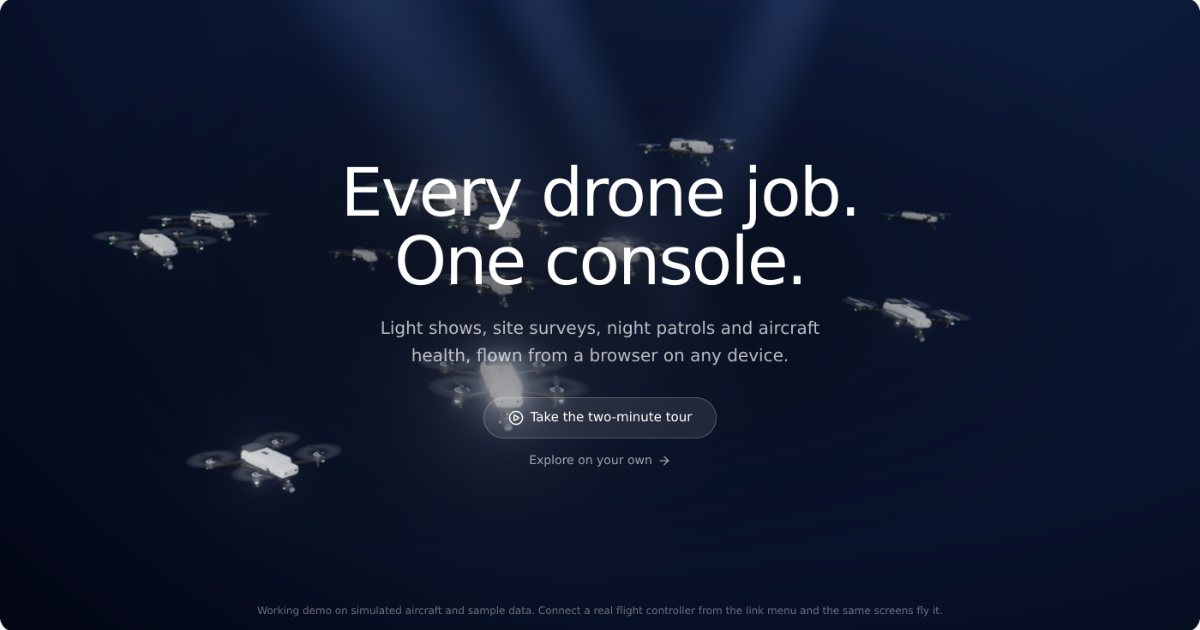
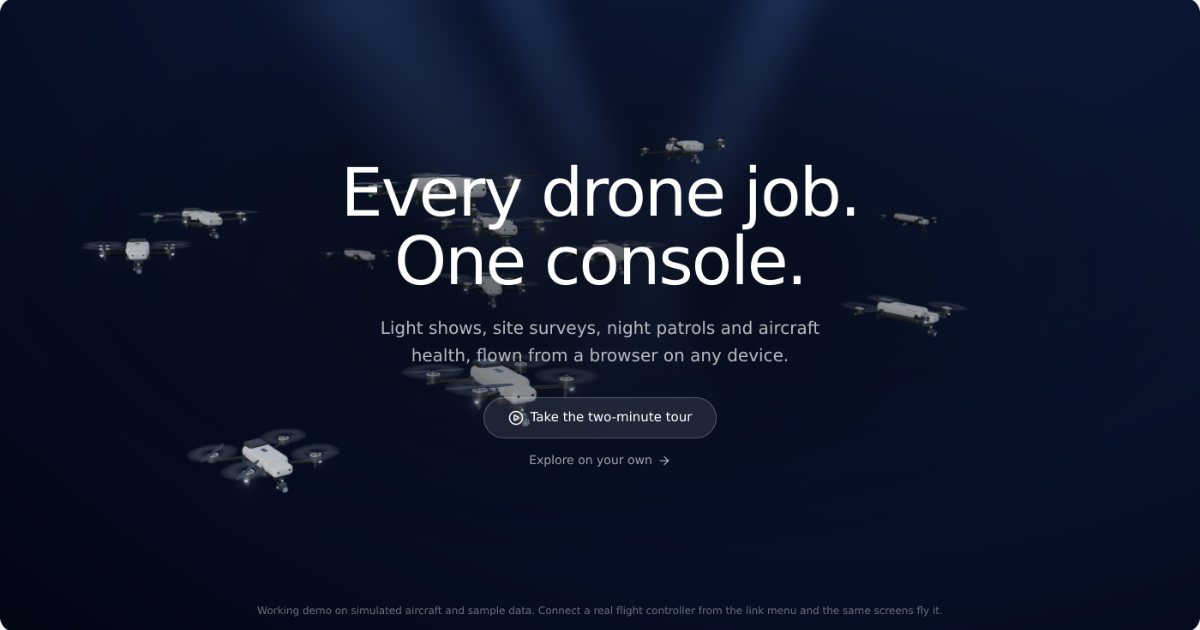
Quality pass: a frame governor on every 3D stage, a living hero, page fixes
A shared frame governor (src/lib/quality.ts) keeps every 3D stage smooth:
it watches the real frame time and steps quality down when frames run
long (pixel ratio, depth of field, bloom, ambient occlusion, fog slices,
shadow map) and back up when there is headroom, remembering the level per
stage. Where the machine allows, the hero, survey and show stages now
render at the screen's full pixel ratio, with SMAA on the hero.

The hero: every aircraft holds its slot the way a quadcopter holds a
hover, wandering a little off station and easing back, leaning into each
correction; the formation breathes and sways as one; nav lights flash the
aviation beat; a small kicker light moves a highlight across the bodies
as the camera drifts. Lighting rebalanced so the white shells keep their
edges instead of blowing out.

Pages: the patrol tool row wraps on phones (Return home was cut off).
The case study's product copy now describes what shipped: eleven
formations, the constructing survey stage, the CGI aerial tour. Social
preview and hero gallery stills regenerated.

Claude-Session: https://claude.ai/code/session_01YRwyL2vKMqSR8sPnguMhnM

diff --git a/drone/src/dashboards/hero/DroneHero.tsx b/drone/src/dashboards/hero/DroneHero.tsx
@@ -6,7 +6,9 @@ import { UnrealBloomPass } from 'three/examples/jsm/postprocessing/UnrealBloomPa
 import { OutputPass } from 'three/examples/jsm/postprocessing/OutputPass.js';
 import { BokehPass } from 'three/examples/jsm/postprocessing/BokehPass.js';
 import { RoomEnvironment } from 'three/examples/jsm/environments/RoomEnvironment.js';
+import { SMAAPass } from 'three/examples/jsm/postprocessing/SMAAPass.js';
 import { buildDrone, droneMaterials, radialTexture } from '../../components/hero/droneModel';
+import { FrameGovernor } from '../../lib/quality';
 
 /**
  * The Overview hero: a fleet of quadcopters in a dark, hazy sky, hovering with a
@@ -15,6 +17,13 @@ import { buildDrone, droneMaterials, radialTexture } from '../../components/hero
  * anodised bodies under a key light and a blue rim light, LED tips that bloom,
  * propeller blur, thin light trails when the fleet moves, volumetric beams in
  * the haze, and a camera that pushes in and follows the pointer a little.
+ *
+ * Motion: every aircraft holds its slot in the formation the way a real
+ * quadcopter holds a hover: a slow wander round the slot, a lean into each
+ * correction, a settle after it, props that never stop, nav lights that
+ * flash. The formation itself breathes and sways, and the camera dollies
+ * and drifts. A frame governor keeps it smooth, stepping the render sharper
+ * or lighter to match the machine.
  *
  * Reduced motion: one still frame of the chevron, nothing moves. No WebGL: the
  * page's gradient stays and the copy stands on its own.
@@ -52,6 +61,9 @@ interface Drone {
   stagger: number;
   ledColor: THREE.Color;
   roll: number; pitch: number; yaw: number;
+  /** The hover wander: a target offset from the slot the aircraft eases toward, re-picked every few seconds. */
+  wander: THREE.Vector3; wanderGoal: THREE.Vector3; nextPick: number;
+  nav: THREE.Mesh[];
 }
 
 export const DroneHero: React.FC<{ className?: string }> = ({ className = '' }) => {
@@ -66,8 +78,9 @@ export const DroneHero: React.FC<{ className?: string }> = ({ className = '' }) 
     let renderer: THREE.WebGLRenderer;
     try { renderer = new THREE.WebGLRenderer({ antialias: true, alpha: false, powerPreference: 'high-performance' }); }
     catch (e) { console.warn('Hero: WebGL unavailable', e); setOk(false); return; }
-    renderer.setPixelRatio(Math.min(window.devicePixelRatio || 1, phone ? 1.25 : 1.6));
-    renderer.toneMapping = THREE.ACESFilmicToneMapping; renderer.toneMappingExposure = 1.05;
+    const gov = new FrameGovernor('hero');
+    renderer.setPixelRatio(gov.pixelRatio(2));
+    renderer.toneMapping = THREE.ACESFilmicToneMapping; renderer.toneMappingExposure = 0.95;
     el.appendChild(renderer.domElement);
     renderer.domElement.style.cssText = 'position:absolute;inset:0;width:100%;height:100%;display:block';
 
@@ -89,10 +102,12 @@ export const DroneHero: React.FC<{ className?: string }> = ({ className = '' }) 
 
     // Lighting: warm key from the front-left and above, cool rim from behind, faint sky fill.
     scene.add(new THREE.HemisphereLight(0x8fa8d8, 0x06080c, 0.55));
-    const key = new THREE.DirectionalLight(0xfff1e0, 1.7); key.position.set(-9, 14, 12); scene.add(key);
-    const fill = new THREE.DirectionalLight(0xdbe6ff, 0.55); fill.position.set(10, 3, 14); scene.add(fill);
-    const rim = new THREE.DirectionalLight(0x8fc0ff, 2.4); rim.position.set(2, 9, -16); scene.add(rim);
-    const under = new THREE.DirectionalLight(0x3d6fd6, 0.6); under.position.set(0, -10, 4); scene.add(under);
+    const key = new THREE.DirectionalLight(0xfff1e0, 1.35); key.position.set(-9, 14, 12); scene.add(key);
+    const fill = new THREE.DirectionalLight(0xdbe6ff, 0.45); fill.position.set(10, 3, 14); scene.add(fill);
+    const rim = new THREE.DirectionalLight(0x8fc0ff, 2.2); rim.position.set(2, 9, -16); scene.add(rim);
+    const under = new THREE.DirectionalLight(0x3d6fd6, 0.5); under.position.set(0, -10, 4); scene.add(under);
+    // A specular highlight that moves across the bodies as the camera drifts: a small, sharp kicker.
+    const kicker = new THREE.PointLight(0xffffff, 9, 30, 1.8); kicker.position.set(4, 8, 10); scene.add(kicker);
 
     // Volumetric beams: soft additive slabs cutting through the haze.
     const beamMat = new THREE.ShaderMaterial({
@@ -126,17 +141,20 @@ export const DroneHero: React.FC<{ className?: string }> = ({ className = '' }) 
       tg.setAttribute('color', new THREE.BufferAttribute(new Float32Array(pts * 3), 3));
       const trail = new THREE.Line(tg, new THREE.LineBasicMaterial({ vertexColors: true, transparent: true, blending: THREE.AdditiveBlending, depthWrite: false, toneMapped: false }));
       trail.frustumCulled = false; scene.add(trail);
-      drones.push({ group, props, blur, trail, history: Array.from({ length: pts }, () => group.position.clone()), prev: group.position.clone(), phase: rnd() * Math.PI * 2, stagger: i / n, ledColor, roll: 0, pitch: 0, yaw: 0 });
+      const nav = group.children.filter((c): c is THREE.Mesh => (c as THREE.Mesh).isMesh && ((c as THREE.Mesh).material === mats.ledGreen || (c as THREE.Mesh).material === mats.ledRed)).map(m => { m.material = (m.material as THREE.Material).clone(); return m; });
+      drones.push({ group, props, blur, trail, history: Array.from({ length: pts }, () => group.position.clone()), prev: group.position.clone(), phase: rnd() * Math.PI * 2, stagger: i / n, ledColor, roll: 0, pitch: 0, yaw: 0, wander: new THREE.Vector3(), wanderGoal: new THREE.Vector3(), nextPick: rnd() * 3, nav });
     }
 
     const composer = new EffectComposer(renderer);
     composer.addPass(new RenderPass(scene, cam));
     // Shallow depth of field, focused on whichever aircraft is nearest; skipped on phones.
-    const bokeh = phone ? null : new BokehPass(scene, cam, { focus: 12, aperture: 0.00012, maxblur: 0.0022 });
+    const bokeh = phone ? null : new BokehPass(scene, cam, { focus: 12, aperture: 0.0001, maxblur: 0.0018 });
     if (bokeh) composer.addPass(bokeh);
-    const bloom = new UnrealBloomPass(new THREE.Vector2(1, 1), phone ? 0.4 : 0.45, 0.55, 0.98);
+    const bloom = new UnrealBloomPass(new THREE.Vector2(1, 1), phone ? 0.3 : 0.34, 0.5, 1.0);
     composer.addPass(bloom);
     composer.addPass(new OutputPass());
+    // Edge anti-aliasing after tone mapping: crisp arms and blades at every pixel ratio.
+    const smaa = new SMAAPass(); composer.addPass(smaa);
 
     const size = () => {
       const w = el.clientWidth, h = el.clientHeight;
@@ -166,9 +184,12 @@ export const DroneHero: React.FC<{ className?: string }> = ({ className = '' }) 
       let x: number, y: number, z: number;
       if (u < 0.5) { const s = smooth(u / 0.5); x = a[0] + (b[0] - a[0]) * s; y = a[1] + (b[1] - a[1]) * s; z = a[2] + (b[2] - a[2]) * s; }
       else { const s = smooth((u - 0.5) / 0.5); x = b[0] + (c[0] - b[0]) * s; y = b[1] + (c[1] - b[1]) * s; z = b[2] + (c[2] - b[2]) * s; }
-      // Idle hover: a slow bob and a lean, unique to each aircraft.
-      y += Math.sin(t * 0.9 + d.phase) * 0.09 + Math.sin(t * 1.7 + d.phase * 2) * 0.03;
-      x += Math.sin(t * 0.5 + d.phase) * 0.06;
+      // The formation breathes and sways as one: a slow swell in scale, a lean of the whole fleet.
+      const swell = 1 + Math.sin(t * 0.23) * 0.035, sway = Math.sin(t * 0.17) * 0.35;
+      x = x * swell + sway * (y * 0.12); z = z * swell;
+      // Hover: a wander round the slot, plus the fine bob a real aircraft never loses.
+      x += d.wander.x; y += d.wander.y; z += d.wander.z;
+      y += Math.sin(t * 0.9 + d.phase) * 0.06 + Math.sin(t * 1.7 + d.phase * 2) * 0.02;
       d.group.position.set(x, y, z);
     };
 
@@ -183,19 +204,26 @@ export const DroneHero: React.FC<{ className?: string }> = ({ className = '' }) 
       cam.lookAt(0, 0.9 + p * 0.3, 0);
       let nearest = 1e9;
       beams.forEach((b, k) => { b.rotation.z = [0.55, 0.42, -0.35][k] + Math.sin(t * 0.08 + k) * 0.05; });
+      kicker.position.set(4 + px * 3, 8 - py * 2, 10);
       drones.forEach((d, i) => {
         d.prev.copy(d.group.position);
+        // Every few seconds the aircraft picks a new spot a little off its slot and eases there: station-keeping.
+        if (t > d.nextPick) { d.wanderGoal.set((rnd() - 0.5) * 0.9, (rnd() - 0.5) * 0.5, (rnd() - 0.5) * 0.7); d.nextPick = t + 2.5 + rnd() * 4; }
+        d.wander.lerp(d.wanderGoal, 1 - Math.exp(-dt * 0.9));
         place(d, i, p, t);
         vel.subVectors(d.group.position, d.prev).divideScalar(Math.max(dt, 1e-3));
         // Bank into the turn: roll with sideways speed, pitch with fore-aft speed, yaw a little toward the heading.
-        const roll = THREE.MathUtils.clamp(-vel.x * 0.09, -0.55, 0.55) + Math.sin(t * 0.8 + d.phase) * 0.035;
-        const pitch = THREE.MathUtils.clamp(vel.z * 0.07, -0.45, 0.45) + Math.sin(t * 1.1 + d.phase) * 0.025;
+        const roll = THREE.MathUtils.clamp(-vel.x * 0.16, -0.55, 0.55) + Math.sin(t * 0.8 + d.phase) * 0.03;
+        const pitch = THREE.MathUtils.clamp(vel.z * 0.12, -0.45, 0.45) + Math.sin(t * 1.1 + d.phase) * 0.02;
         const yaw = vel.length() > 0.8 ? Math.atan2(vel.x, -vel.z) * 0.35 : d.yaw;
         d.roll += (roll - d.roll) * (1 - Math.exp(-dt * 3)); d.pitch += (pitch - d.pitch) * (1 - Math.exp(-dt * 3)); d.yaw += (yaw - d.yaw) * (1 - Math.exp(-dt * 1.5));
         d.group.rotation.set(d.pitch - 0.08, d.yaw - Math.PI * 0.5 + 0.55 + Math.sin(d.phase) * 0.3, d.roll, 'YXZ');
         nearest = Math.min(nearest, d.group.position.distanceTo(cam.position));
-        const spin = dt * 62;
+        const spin = dt * (62 + vel.length() * 6);
         d.props.forEach((pr, k) => { pr.rotation.y += spin * (k % 2 ? -1 : 1); });
+        // Nav lights: the aviation flash, once a second, offset per aircraft.
+        const flash = ((t * 1.0 + d.phase) % 1) < 0.12 ? 1 : 0.18;
+        d.nav.forEach(m => { const mat = m.material as THREE.MeshBasicMaterial; mat.opacity = flash; mat.transparent = true; });
         // Light trail: recent positions, fading, brighter the faster the aircraft moves.
         d.history.pop(); d.history.unshift(d.group.position.clone());
         const pos = d.trail.geometry.getAttribute('position') as THREE.BufferAttribute, col = d.trail.geometry.getAttribute('color') as THREE.BufferAttribute;
@@ -203,8 +231,10 @@ export const DroneHero: React.FC<{ className?: string }> = ({ className = '' }) 
         d.history.forEach((h, k) => { pos.setXYZ(k, h.x, h.y - 0.05, h.z); const f = strength * (1 - k / d.history.length) * 0.8; col.setXYZ(k, d.ledColor.r * f, d.ledColor.g * f, d.ledColor.b * f); });
         pos.needsUpdate = true; col.needsUpdate = true;
       });
-      if (bokeh) (bokeh.uniforms as { focus: { value: number } }).focus.value += (nearest - (bokeh.uniforms as { focus: { value: number } }).focus.value) * 0.1;
+      if (bokeh) { bokeh.enabled = gov.level === 0; (bokeh.uniforms as { focus: { value: number } }).focus.value += (nearest - (bokeh.uniforms as { focus: { value: number } }).focus.value) * 0.1; }
+      bloom.enabled = gov.level < 2; smaa.enabled = gov.level < 2;
       composer.render();
+      if (gov.tick(dt * 1000)) { renderer.setPixelRatio(gov.pixelRatio(2)); size(); }
       raf = requestAnimationFrame(frame);
     };
 

diff --git a/drone/portfolio/case-study.html b/drone/portfolio/case-study.html
@@ -169,42 +169,42 @@
       <div>
         <span class="tag">Light show</span>
         <h3>Conduct a show from front of house</h3>
-        <p>The stage renders like the night sky the audience will see: bloomed LED halos, light trails through formation changes, reflections on the venue floor.</p>
+        <p>Eleven living formations for 100 to 500 aircraft: an aurora sphere, a spiral galaxy, a phoenix, a heartbeat, fireworks, wedding rings, a countdown, and any words spelt out in lights. The stage renders like the night sky the audience will see: bloomed LED halos, light trails through every change, searchlights, the view from the crowd.</p>
         <ul>
           <li>Pre-flight gates (timecode lock, wind, RTK, battery) hold the arm button</li>
           <li>One-button abort: lights out, controlled descent for every aircraft</li>
           <li>Exports the choreography to the show-control stack</li>
         </ul>
       </div>
-      <div class="shot"><img src="gallery/show.jpg" alt="Show conductor with a 100-aircraft orb formation" loading="lazy" width="1600" height="1000"></div>
+      <div class="shot"><img src="gallery/show.jpg" alt="Show conductor mid-show, 100 aircraft in formation seen from the audience" loading="lazy" width="1600" height="1000"></div>
     </article>
 
     <article class="product" style="--accent: var(--survey)">
       <div>
         <span class="tag">Site survey</span>
         <h3>Watch the map develop in flight</h3>
-        <p>Pick a map, a 3D model or an inspection orbit, and the camera maths sets height, line spacing and flight time. The venue turns from blueprint into aerial photo under the aircraft.</p>
+        <p>Pick a map, a 3D model or an inspection orbit, and the camera maths sets height, line spacing and flight time. The venue constructs itself under the aircraft: blueprint ground, each photo dropping into place as a tile of the finished map, buildings rising as they are photographed, filmed by a director's camera.</p>
         <ul>
           <li>Coverage checked before leaving the venue, not back at the office</li>
           <li>Re-fly weak patches in minutes</li>
           <li>Mission upload to the aircraft, and a package for the processing software</li>
         </ul>
       </div>
-      <div class="shot"><img src="gallery/survey.jpg" alt="Site survey 3D stage mid-flight, 60% photographed" loading="lazy" width="1600" height="1000"></div>
+      <div class="shot"><img src="gallery/survey.jpg" alt="Site survey 3D stage: the venue rising out of its blueprint as the aircraft photographs it" loading="lazy" width="1600" height="1000"></div>
     </article>
 
     <article class="product" style="--accent: var(--patrol)">
       <div>
         <span class="tag">Security patrol</span>
         <h3>See the venue at night</h3>
-        <p>Four aircraft on a patrol loop. The camera plays real drone footage over San Francisco, Los Angeles, New York and mountain ranges, with thermal and night-vision modes applied on top; a rendered 3D city with traffic, people and thermal signatures stands in when the footage can't load.</p>
+        <p>Four aircraft on a patrol loop. The camera plays real drone footage over San Francisco, Los Angeles, New York and mountain ranges, with thermal and night-vision modes applied on top. When the footage can't load, San Francisco plays as a CGI aerial tour rendered live in the browser, eighteen shots from the Golden Gate to blue hour, and other cities as a rendered 3D city with traffic, people and thermal signatures.</p>
         <ul>
           <li>Night protocol switches every camera to thermal</li>
           <li>Gimbal, zoom, spotlight and photos on the real aircraft</li>
           <li>Detections queue for the security team</li>
         </ul>
       </div>
-      <div class="shot"><img src="gallery/patrol.jpg" alt="Patrol screen: four aircraft over a city with an event plaza, stage and crowd" loading="lazy" width="1600" height="1000"></div>
+      <div class="shot"><img src="gallery/patrol.jpg" alt="Patrol screen: the San Francisco skyline under the marine layer, rendered live" loading="lazy" width="1600" height="1000"></div>
     </article>
   </section>
 

diff --git a/drone/src/lib/quality.ts b/drone/src/lib/quality.ts
@@ -1,0 +1,59 @@
+/**
+ * Frame governor: keeps every 3D stage smooth on whatever machine it runs on.
+ *
+ * Each stage feeds it a frame time; it keeps a smoothed average and steps a
+ * quality level down when frames run long, and back up when there is headroom
+ * for a good while. The stage maps the level to what it can trade: pixel
+ * ratio, post-processing passes, shadow map size, particle counts.
+ *
+ *   0  full quality (sharp pixel ratio, every pass)
+ *   1  lighter (pixel ratio 1.25, the dearest pass off)
+ *   2  lightest (pixel ratio 1, no post-processing beyond output)
+ *
+ * The chosen level is remembered per stage between visits, so a slow machine
+ * doesn't stutter through the first seconds of every page.
+ */
+
+export type QualityLevel = 0 | 1 | 2;
+
+const STEP_DOWN_MS = 1000 / 40;   // slower than 40 fps: step down
+const STEP_UP_MS = 1000 / 58;     // faster than 58 fps for long enough: step up
+const SETTLE_DOWN = 45;           // frames of evidence before stepping down
+const SETTLE_UP = 600;            // frames before stepping back up (about ten seconds)
+
+export class FrameGovernor {
+  level: QualityLevel;
+  private avg = 16;
+  private settled = 0;
+  private readonly key: string;
+  private listeners: ((l: QualityLevel) => void)[] = [];
+
+  constructor(name: string, start: QualityLevel = 0) {
+    this.key = `a1-quality-${name}`;
+    let saved: QualityLevel | null = null;
+    try { const v = localStorage.getItem(this.key); if (v !== null) saved = Math.min(2, Math.max(0, Number(v))) as QualityLevel; } catch { /* private mode */ }
+    this.level = saved ?? start;
+  }
+
+  /** Call once per rendered frame with the frame time in milliseconds. Returns true when the level changed. */
+  tick(frameMs: number): boolean {
+    this.avg = this.avg * 0.92 + Math.min(frameMs, 100) * 0.08;
+    this.settled++;
+    let next = this.level;
+    if (this.avg > STEP_DOWN_MS && this.level < 2 && this.settled > SETTLE_DOWN) next = (this.level + 1) as QualityLevel;
+    else if (this.avg < STEP_UP_MS && this.level > 0 && this.settled > SETTLE_UP) next = (this.level - 1) as QualityLevel;
+    if (next === this.level) return false;
+    this.level = next; this.settled = 0; this.avg = 16;
+    try { localStorage.setItem(this.key, String(next)); } catch { /* ignore */ }
+    for (const l of this.listeners) l(next);
+    return true;
+  }
+
+  onChange(l: (level: QualityLevel) => void) { this.listeners.push(l); }
+
+  /** The pixel ratio for this level: sharp where there is headroom, never above what the screen has. */
+  pixelRatio(max = 2): number {
+    const dpr = window.devicePixelRatio || 1;
+    return Math.min(dpr, this.level === 0 ? max : this.level === 1 ? 1.25 : 1);
+  }
+}

diff --git a/drone/src/components/survey/SurveyScanCanvas3D.tsx b/drone/src/components/survey/SurveyScanCanvas3D.tsx
@@ -12,6 +12,7 @@ import { RotateCcw } from 'lucide-react';
 import { PARKED_CARS, SITE, TREES, WORLD_M, heightAt, siteImagery, structureAt } from '../../survey/site';
 import { GOOD_VIEWS, type CoverageGrid, type Leg, type SurveyPlan } from '../../survey/plan';
 import { buildDrone, droneMaterials, radialTexture } from '../hero/droneModel';
+import { FrameGovernor } from '../../lib/quality';
 import type { Photo, SurveyAircraft, Phase } from '../../hooks/useSurveyMission';
 
 /**
@@ -207,7 +208,8 @@ export const SurveyScanCanvas3D: React.FC<Props> = (props) => {
     const host = hostRef.current; if (!host) return;
     const w = host.clientWidth || 900, h = host.clientHeight || 520;
     const renderer = new THREE.WebGLRenderer({ antialias: true, powerPreference: 'high-performance' });
-    renderer.setPixelRatio(Math.min(window.devicePixelRatio, 2));
+    const gov = new FrameGovernor('survey');
+    renderer.setPixelRatio(gov.pixelRatio(2));
     renderer.setSize(w, h);
     renderer.toneMapping = THREE.ACESFilmicToneMapping;
     renderer.toneMappingExposure = 1.15;
@@ -684,7 +686,8 @@ export const SurveyScanCanvas3D: React.FC<Props> = (props) => {
       }
       // Depth of field only when the film or the follow camera is close to the aircraft.
       const filmed = vw === 'CINEMATIC' || vw === 'FOLLOW';
-      bokeh.enabled = filmed;
+      bokeh.enabled = filmed && gov.level === 0;
+      bloom.enabled = gov.level < 2;
       const bu = bokeh.uniforms as { focus: { value: number }; aperture: { value: number } };
       bu.focus.value += (camera.position.distanceTo(ac.position) - bu.focus.value) * 0.15;
       bu.aperture.value = vw === 'CINEMATIC' ? 0.00005 : 0.00002;
@@ -694,6 +697,7 @@ export const SurveyScanCanvas3D: React.FC<Props> = (props) => {
       place(homeRef.current, SITE.home.x, hy + 6, SITE.home.y);
 
       composer.render();
+      if (gov.tick(dt * 1000)) { renderer.setPixelRatio(gov.pixelRatio(2)); const cw = host.clientWidth, ch = host.clientHeight; renderer.setSize(cw, ch); composer.setSize(cw, ch); bloom.setSize(cw, ch); }
     };
     raf = requestAnimationFrame(tick);
 

diff --git a/drone/src/dashboards/feed/engine.ts b/drone/src/dashboards/feed/engine.ts
@@ -218,7 +218,7 @@ class Engine {
     else if (this.slow < 1 / 56 && this.level > 0 && this.settled > 600) { this.level--; this.settled = 0; }
     this.city.update(dt);
     this.sfSeen = false;
-    for (const v of this.views) if (v.world === 'SF' && !v.video) { this.sfWorld().update(dt); break; }
+    for (const v of this.views) if (v.world === 'SF' && !v.video) { const sf = this.sfWorld(); sf.update(dt); sf.setDetail(this.level); break; }
     const moved = new Set<string>();
     for (const v of this.views) {
       const d = v.get().drone;
@@ -349,8 +349,8 @@ class Engine {
       this.sfRt = new THREE.WebGLRenderTarget(FEED_W, FEED_H, { samples: 4, type: THREE.HalfFloatType });
       this.sfDepth = new THREE.WebGLRenderTarget(FEED_W, FEED_H, { minFilter: THREE.NearestFilter, magFilter: THREE.NearestFilter });
     }
-    // Depth prepass for the ambient occlusion: solid geometry only, at half resolution.
-    if (!v.compact) {
+    // Depth prepass for the ambient occlusion: solid geometry only; skipped when the machine is stepping down.
+    if (!v.compact && this.level === 0) {
       sf.solidOnly(true);
       sf.scene.overrideMaterial = this.depthMat;
       this.sfDepth!.viewport.set(0, 0, w, h);
@@ -367,7 +367,7 @@ class Engine {
     this.renderer.render(sf.scene, this.cam);
     const u = this.post.uniforms;
     u.tDiffuse.value = this.sfRt.texture; u.tDepth.value = this.sfDepth!.texture;
-    u.ao.value = v.compact ? 0 : 1; u.camNear.value = this.cam.near; u.camFar.value = this.cam.far;
+    u.ao.value = v.compact || this.level > 0 ? 0 : 1; u.camNear.value = this.cam.near; u.camFar.value = this.cam.far;
     u.invProj.value.copy(this.cam.projectionMatrixInverse); u.proj.value.copy(this.cam.projectionMatrix);
     u.uvScale.value.set(w / FEED_W, h / FEED_H); u.uvMax.value.copy(u.uvScale.value); u.uvOffset.value.set(0, 0); u.uvRot.value = 0;
     u.res.value.set(w, h);

diff --git a/drone/src/dashboards/feed/sf.ts b/drone/src/dashboards/feed/sf.ts
@@ -899,6 +899,16 @@ export class SanFrancisco {
     return mat;
   }
 
+  private detail = -1;
+  /** Trade detail for speed: fewer fog slices and a smaller shadow map as the level rises. */
+  setDetail(level: number) {
+    if (level === this.detail) return; this.detail = level;
+    let k = 0;
+    this.scene.traverse(o => { if (o.name === 'fog') { o.userData.slice = k++; } });
+    this.scene.traverse(o => { if (o.name === 'fog') o.userData.off = level === 0 ? false : level === 1 ? o.userData.slice % 2 === 1 : o.userData.slice % 3 !== 0; });
+    const size = level === 0 ? 2048 : 1024;
+    if (this.sun.shadow.mapSize.x !== size) { this.sun.shadow.mapSize.set(size, size); this.sun.shadow.map?.dispose(); this.sun.shadow.map = null; }
+  }
   private hidden: THREE.Object3D[] = [];
   /** Hide everything that is not solid geometry (fog, sprites, points, lines) for a depth prepass, and restore. */
   solidOnly(on: boolean) {
@@ -951,7 +961,7 @@ export class SanFrancisco {
     if (!ir) this.scene.environment = this.envFor(mood); else this.scene.environment = null;
     this.gndMat.emissiveIntensity = blue ? 0.9 : golden ? 0.55 : 0;
     this.lights.visible = !ir && !day; this.carLights.visible = !ir && !day; this.sunDisc.visible = !ir && !blue;
-    this.scene.traverse(o => { if (o.name === 'fog') o.visible = !ir; });
+    this.scene.traverse(o => { if (o.name === 'fog') o.visible = !ir && !o.userData.off; });
     this.fogLayer.uniforms.mood.value = MOOD_K[mood];
     this.fogLayer.uniforms.fogCol.value.set(blue ? 0x28324a : golden ? 0xd9c3ae : 0xeef1f4);
     this.ggMat.emissive.set(blue ? 0xff9a3c : 0x000000); this.ggMat.emissiveIntensity = blue ? 0.5 : 0;

diff --git a/drone/src/components/lightshow/LightShowCanvas3D.tsx b/drone/src/components/lightshow/LightShowCanvas3D.tsx
@@ -1,4 +1,5 @@
 import React, { useEffect, useRef, useState } from 'react';
+import { FrameGovernor } from '../../lib/quality';
 import * as THREE from 'three';
 import { EffectComposer } from 'three/addons/postprocessing/EffectComposer.js';
 import { RenderPass } from 'three/addons/postprocessing/RenderPass.js';
@@ -130,7 +131,8 @@ export const LightShowCanvas3D: React.FC<LightShowCanvas3DProps> = ({
     const w = container.clientWidth || 800, h = container.clientHeight || 520;
 
     const renderer = new THREE.WebGLRenderer({ antialias: true, powerPreference: 'high-performance' });
-    renderer.setPixelRatio(Math.min(window.devicePixelRatio, 2));
+    const gov = new FrameGovernor('show');
+    renderer.setPixelRatio(gov.pixelRatio(2));
     renderer.setSize(w, h);
     renderer.toneMapping = THREE.ACESFilmicToneMapping;
     renderer.toneMappingExposure = 1.2;
@@ -306,7 +308,8 @@ export const LightShowCanvas3D: React.FC<LightShowCanvas3DProps> = ({
       }
 
       st.bloom.enabled = glow;
-      if (glow) st.composer.render(); else st.renderer.render(s, camera);
+      if (glow && gov.level < 2) st.composer.render(); else st.renderer.render(s, camera);
+      if (gov.tick(dt * 1000)) { renderer.setPixelRatio(gov.pixelRatio(2)); const cw = container.clientWidth, ch = container.clientHeight; renderer.setSize(cw, ch); composer.setSize(cw, ch); bloom.setSize(cw, ch); }
     };
     raf = requestAnimationFrame(tick);
 

diff --git a/drone/src/dashboards/SurveillanceDashboard.tsx b/drone/src/dashboards/SurveillanceDashboard.tsx
@@ -192,7 +192,7 @@ export const SurveillanceDashboard: React.FC = () => {
               <IconButton icon={<ZoomOut />} label="Zoom out" disabled={offline} onClick={() => payload.zoom(Math.max(1, d.zoom - 1))} />
               <span className="num text-[12px] text-ink w-7 text-center">{d.zoom}×</span>
               <IconButton icon={<ZoomIn />} label="Zoom in" disabled={offline} onClick={() => payload.zoom(Math.min(10, d.zoom + 1))} />
-              <span className="ml-auto flex items-center gap-3">
+              <span className="ml-auto flex flex-wrap items-center gap-3 max-sm:ml-0 max-sm:w-full">
                 <span className="relative">
                   <ToolButton icon={videoSource.kind === 'FOOTAGE' ? <Film /> : videoSource.kind === 'SIM' ? <Cpu /> : videoSource.kind === 'CAPTURE' ? <Cable /> : <Globe />} label={videoSource.kind === 'FOOTAGE' ? `Video: ${PLACE_LABEL[videoSource.place]}` : videoSource.kind === 'SIM' ? (videoSource.world === 'SF' ? 'Video: San Francisco tour' : 'Video: 3D simulation') : videoSource.kind === 'CAPTURE' ? 'Video: capture' : 'Video: aircraft'} active={videoSource.kind === 'CAPTURE' || videoSource.kind === 'WEBRTC'} onClick={() => setVideoMenu(m => !m)} />
                   {videoMenu && (

diff --git a/drone/src/components/hero/droneModel.ts b/drone/src/components/hero/droneModel.ts
@@ -98,7 +98,7 @@ export function buildDrone(mats: Record<string, THREE.Material>, blurTex: THREE.
 /** Materials for one fleet; share the record across aircraft. */
 export function droneMaterials(): Record<string, THREE.Material> {
   const mats: Record<string, THREE.Material> = {
-    white: new THREE.MeshPhysicalMaterial({ color: 0xcfd3d7, metalness: 0.02, roughness: 0.5, clearcoat: 0.35, clearcoatRoughness: 0.4 }),
+    white: new THREE.MeshPhysicalMaterial({ color: 0xb9bec4, metalness: 0.02, roughness: 0.55, clearcoat: 0.3, clearcoatRoughness: 0.45 }),
     graphite: new THREE.MeshPhysicalMaterial({ color: 0x2c3036, metalness: 0.15, roughness: 0.55, clearcoat: 0.2, clearcoatRoughness: 0.5 }),
     carbon: new THREE.MeshStandardMaterial({ color: 0x1b1e23, metalness: 0.35, roughness: 0.42 }),
     seam: new THREE.MeshStandardMaterial({ color: 0x0c0e11, metalness: 0.2, roughness: 0.8 }),
